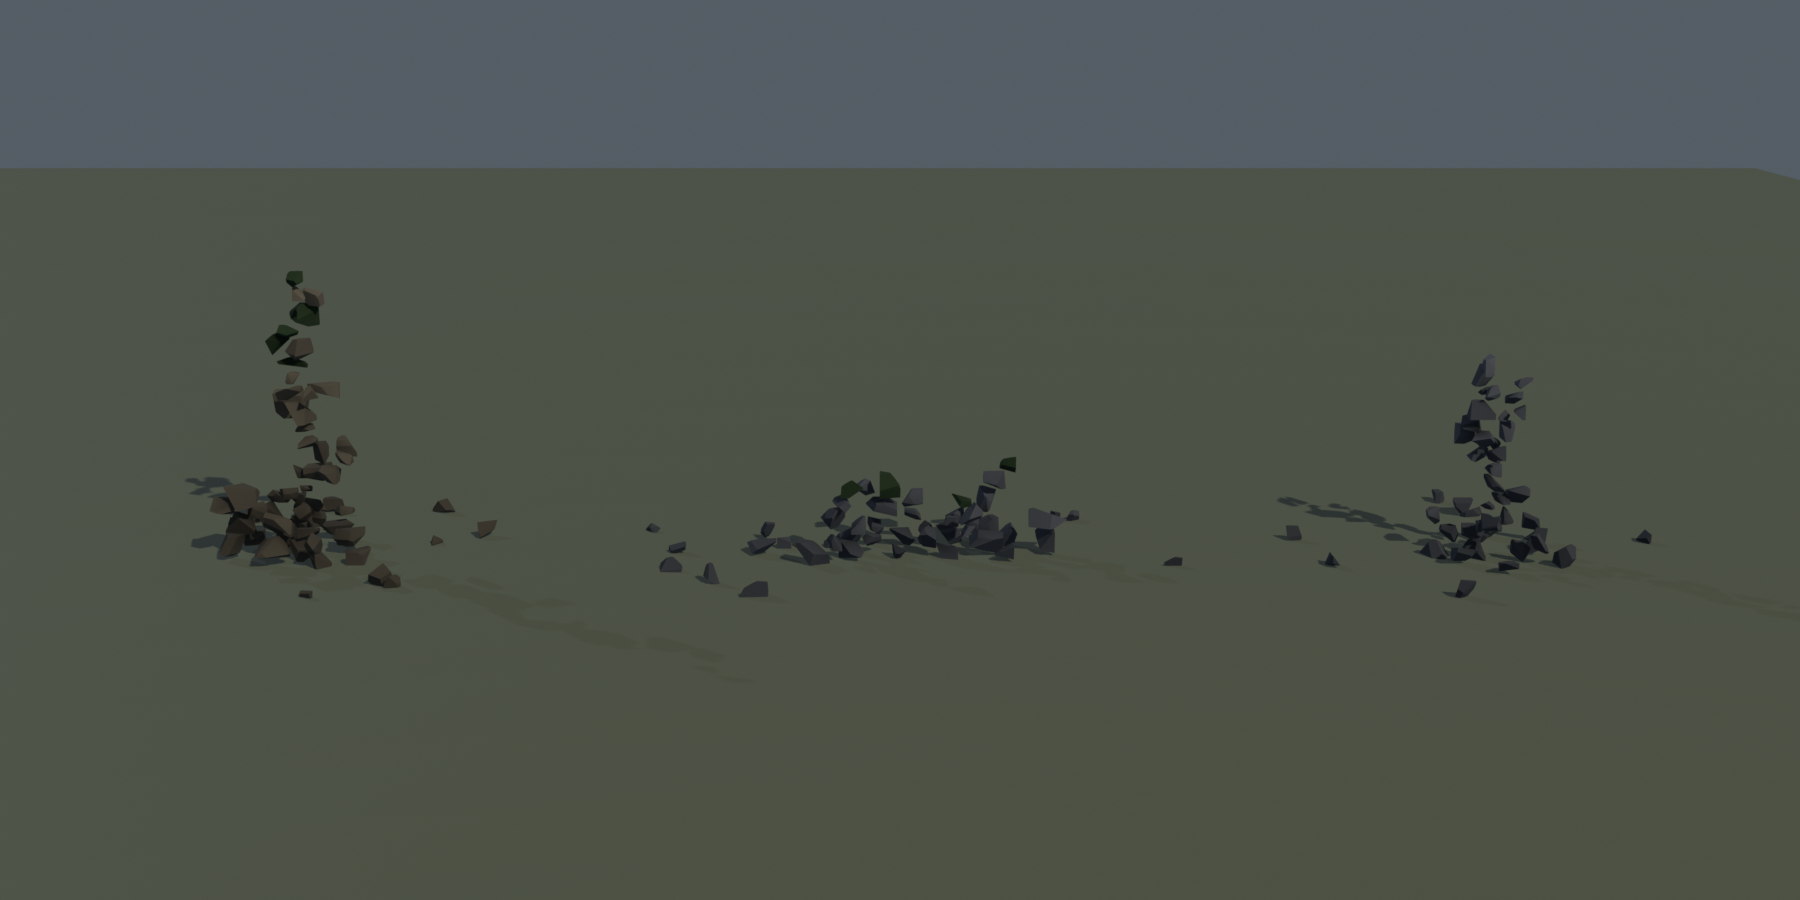
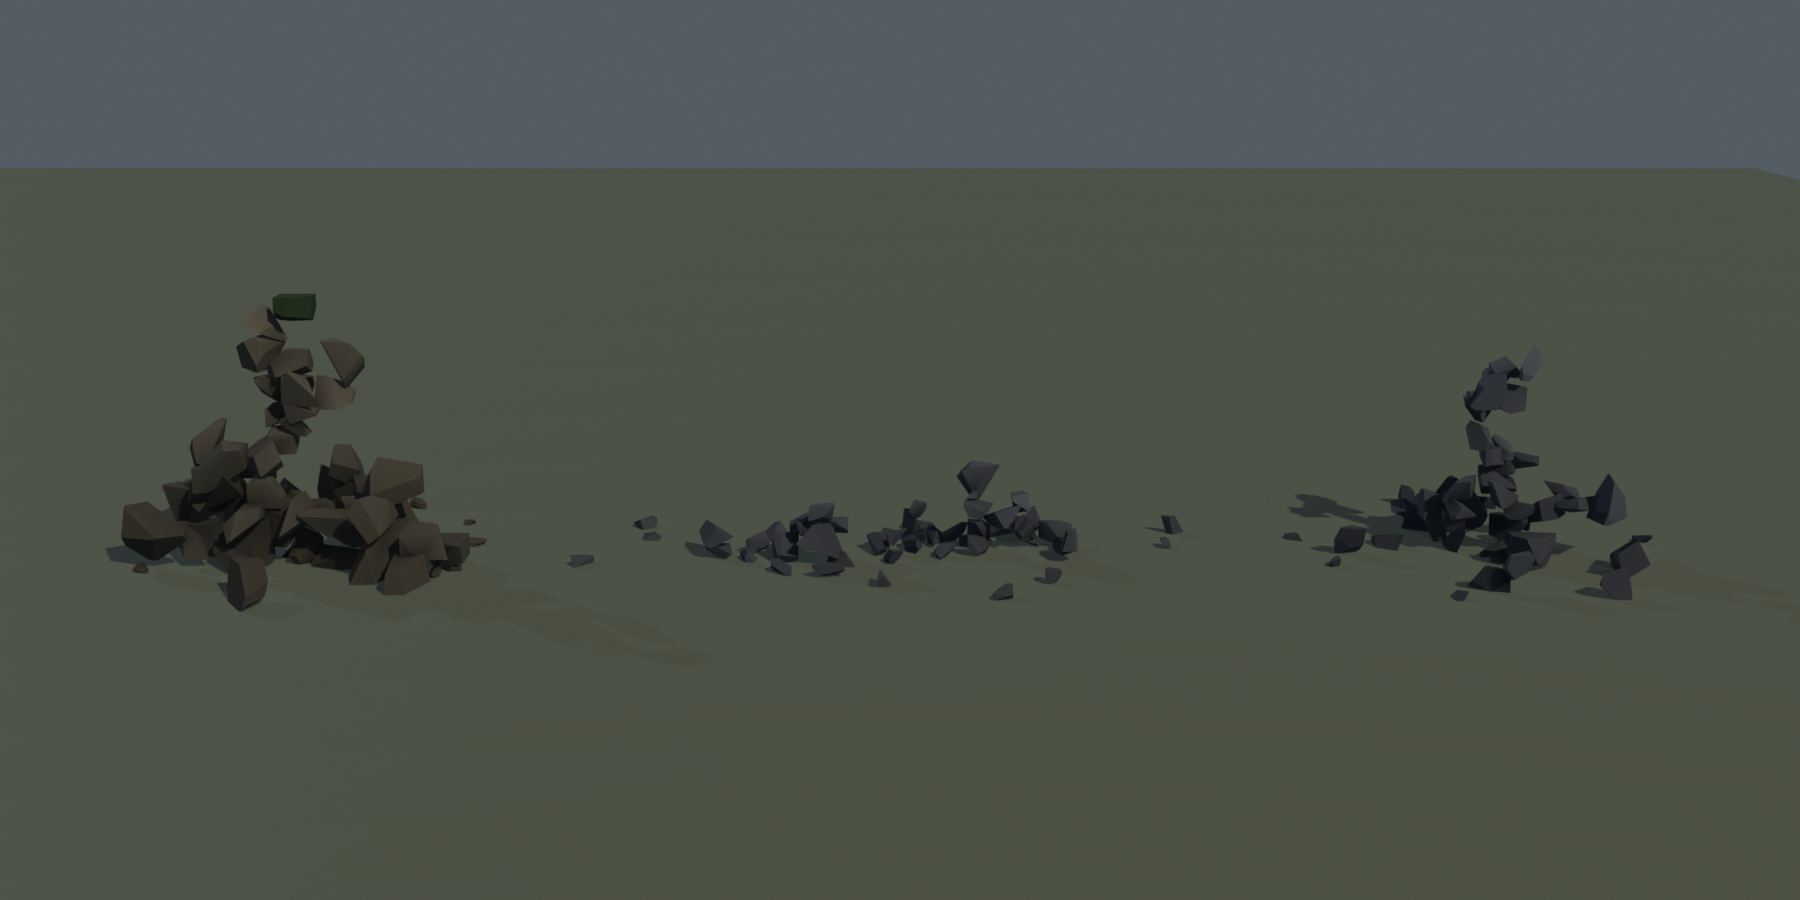
fix(biome_facet): build, measure, then settle - stones finally interlock
The root cause of both open bugs, in one line: _convex_chunk normalises a stone
so its maximum extent equals the radius in ONE direction and is smaller in every
other, so that radius is an upper bound, not a size. Settling stones at contact
distance computed from it rested them on spheres that do not exist - which left
them hovering AND left nothing buried for the interior cull to remove.

carve() now builds each stone and measures its real half-extents (hr, hz) before
anything decides where it goes. Contact uses those, so ADJACENCY finally means
what it says: centres at 0.60x the sum of REAL extents is a 40% interpenetration.

Three independent signals moved together, which is the evidence this is real and
not cosmetic:
  interior cull   -1%   -> -4 to -7%   (buried geometry now exists)
  ao_mean mound   0.81  -> 0.77        (more enclosure)
  ao_mean peak    0.80  -> 0.72        (most on the most closed formation)

Remaining, honestly: ONE stone still floats - hr and hz are bounds along their
own axes and real contact can fall off-axis - and the moss reads as a green
stone rather than moss on a grey one.

diff --git a/recetas/biome_facet.py b/recetas/biome_facet.py
@@ -409,12 +409,27 @@ def add_stone_aggregate(bm, vcol, center, spec, rng):
     made_faces = []
     solids = []
 
-    def place_stone(pos, stone_r, height_t, allow_moss, elong_s, flat_s):
+    def carve(stone_r):
+        """Build one stone and MEASURE it. Returns (coords, faces, hr, hz).
+
+        Measuring is the whole point. _convex_chunk normalises a stone so its
+        maximum extent equals `stone_r` in ONE direction and is smaller in every
+        other, so `stone_r` is an upper bound, not a size. Three separate fixes
+        for floating stones failed because they all used it as a size, and the
+        interior-face cull then removed 1% instead of ~20% for the same reason:
+        stones set at sphere-contact distance for radii they do not have never
+        touch, so there is nothing buried and nothing holding them up.
+        """
         coords, faces = _convex_chunk(
             rng, stone_r, cuts=cuts, bedding=spec.get("bedding", 0),
             bedding_jitter=spec.get("bedding_jitter", 0.10),
-            elongate=elong_s, flatten=flat_s,
+            elongate=rng.uniform(0.85, 1.25), flatten=rng.uniform(0.72, 1.10),
         )
+        hz = max((abs(c.z) for c in coords), default=stone_r)
+        hr = max((math.hypot(c.x, c.y) for c in coords), default=stone_r)
+        return coords, faces, hr, hz
+
+    def emit_stone(coords, faces, pos, height_t, allow_moss):
         verts = [bm.verts.new(pos + c) for c in coords]
         mine = []
         for idx in faces:
@@ -456,65 +471,58 @@ def add_stone_aggregate(bm, vcol, center, spec, rng):
     # stones read as one mass when their centres sit at ADJACENCY x the sum of
     # their radii. Given the horizontal gap, that fixes the vertical drop exactly,
     # so stones interlock instead of leaving the gaps the loose version had.
-    seats = []          # (centre, radius, elongate, flatten)
+    blanks = []
     for _i in range(n):
         t = rng.random() ** 1.45
         env = _envelope_radius(t, profile)
         ang = rng.uniform(0.0, math.tau)
         rad = R * env * math.sqrt(rng.random())
         stone_r = R * stone_frac * (1.0 - 0.40 * t) * rng.uniform(0.78, 1.25)
-        # The stone's own squash is drawn HERE, not inside place_stone, because
-        # the settle has to know it. The first version modelled every stone as a
-        # sphere of its nominal radius while building them flattened by 0.72-1.10,
-        # so a stone could come to rest with up to 28% of its radius of air
-        # beneath it. Floating stones survived two "fixes" because of it.
-        elong_s = rng.uniform(0.85, 1.25)
-        flat_s = rng.uniform(0.72, 1.10)
-        x = math.cos(ang) * rad * elongate
-        y = math.sin(ang) * rad
-        z = stone_r * flat_s * 0.55       # on the ground, part-buried
-        for pc, pr, _pe, pf in seats:
-            # Anisotropic contact: horizontal reach uses the nominal radii, the
-            # vertical drop uses the SQUASHED ones. Ellipsoid contact, which is
-            # what these stones actually are.
-            reach_h = ADJACENCY * (stone_r * max(elong_s, 1.0) + pr * max(_pe, 1.0))
-            reach_v = ADJACENCY * (stone_r * flat_s + pr * pf)
-            d = math.hypot(x - pc.x, y - pc.y)
+        coords, faces, hr, hz = carve(stone_r)
+        blanks.append(dict(coords=coords, faces=faces,
+                           x=math.cos(ang) * rad * elongate,
+                           y=math.sin(ang) * rad, hr=hr, hz=hz, z=0.0))
+
+    # Contact now uses the stone's OWN measured half-extents, so ADJACENCY finally
+    # means what it says: centres at 0.60 x the sum of real extents is a 40%
+    # interpenetration. Stones lock together instead of hovering near each other,
+    # which is what makes the pile hold AND what gives the interior-face cull
+    # something to remove.
+    for i, b in enumerate(blanks):
+        z = b["hz"] * 0.55                      # on the ground, part-buried
+        for p in blanks[:i]:
+            reach_h = ADJACENCY * (b["hr"] + p["hr"])
+            reach_v = ADJACENCY * (b["hz"] + p["hz"])
+            d = math.hypot(b["x"] - p["x"], b["y"] - p["y"])
             if d < reach_h:
                 drop = reach_v * math.sqrt(max(0.0, 1.0 - (d / reach_h) ** 2))
-                z = max(z, pc.z + drop)
-        seats.append((Vector((x, y, z)), stone_r, elong_s, flat_s))
+                z = max(z, p["z"] + drop)
+        b["z"] = z
 
     # Height is an OUTCOME of the packing, so the formation is rescaled to honour
-    # the spec — but UNIFORMLY, positions and stone radii together.
-    #
-    # Scaling Z alone was a bug with teeth: the settle above guarantees every
-    # stone touches its supporter, and stretching only the vertical axis pulls
-    # each stone off the one holding it up. Floating stones came back on the very
-    # pass that was meant to have fixed them. A uniform scale preserves every
-    # distance ratio, so contact survives by construction.
-    top = max((c.z + r * f for c, r, _e, f in seats), default=1.0)
+    # the spec — but UNIFORMLY, positions and stone geometry together. Scaling Z
+    # alone would pull every settled stone off its supporter.
+    top = max((b["z"] + b["hz"] for b in blanks), default=1.0)
     k = min(1.6, max(0.6, H / max(top, 1e-6)))
 
-    for c, stone_r, elong_s, flat_s in seats:
-        pos = origin + c * k
+    for b in blanks:
+        pos = origin + Vector((b["x"], b["y"], b["z"])) * k
         # Moss follows where the stone ENDED UP, not where it was drawn.
-        place_stone(pos, stone_r * k, min(1.0, (c.z * k) / max(H, 1e-6)),
-                    True, elong_s, flat_s)
+        emit_stone([c * k for c in b["coords"]], b["faces"], pos,
+                   min(1.0, (b["z"] * k) / max(H, 1e-6)), True)
 
     for _i in range(outliers):
         # Loose stones at the foot. In the references these are what stop the
         # formation from having a hard contact line with the ground.
         ang = rng.uniform(0.0, math.tau)
         rad = R * rng.uniform(1.0, 1.55)
-        out_r = R * stone_frac * rng.uniform(0.35, 0.70)
-        out_flat = rng.uniform(0.72, 1.10)
+        coords, faces, _hr, hz = carve(R * stone_frac * rng.uniform(0.35, 0.70))
         pos = origin + Vector((
             math.cos(ang) * rad * elongate,
             math.sin(ang) * rad,
-            out_r * out_flat * rng.uniform(0.15, 0.55),
+            hz * rng.uniform(0.15, 0.55),      # measured, so it sits half-buried
         ))
-        place_stone(pos, out_r, 0.0, False, rng.uniform(0.85, 1.25), out_flat)
+        emit_stone(coords, faces, pos, 0.0, False)
 
     stats = (len(bm.faces), len(bm.faces))
     if spec.get("cull_interior", True):
